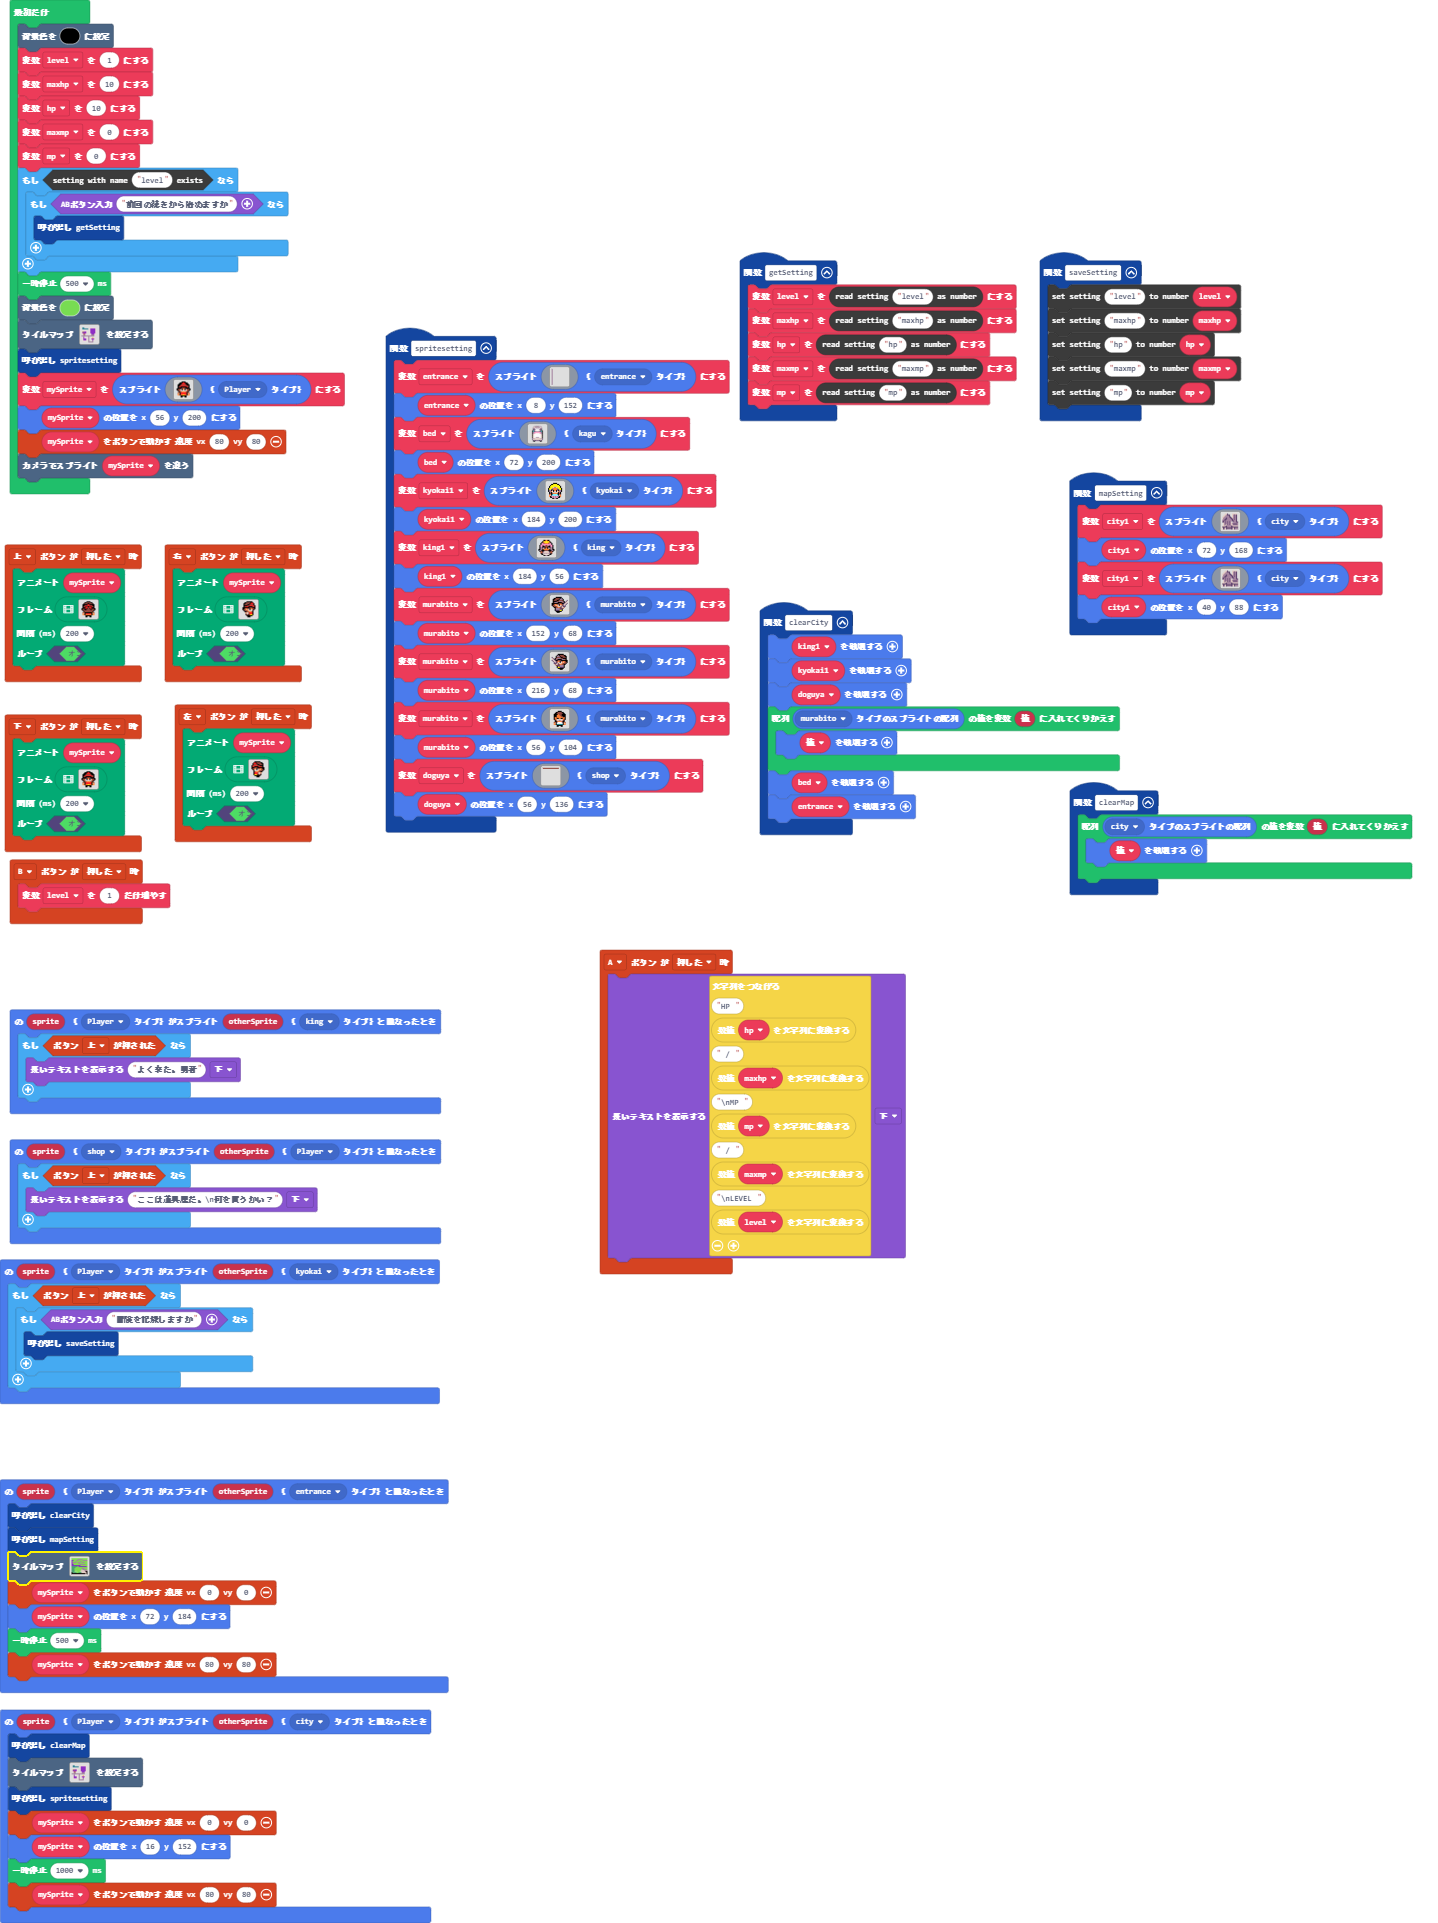
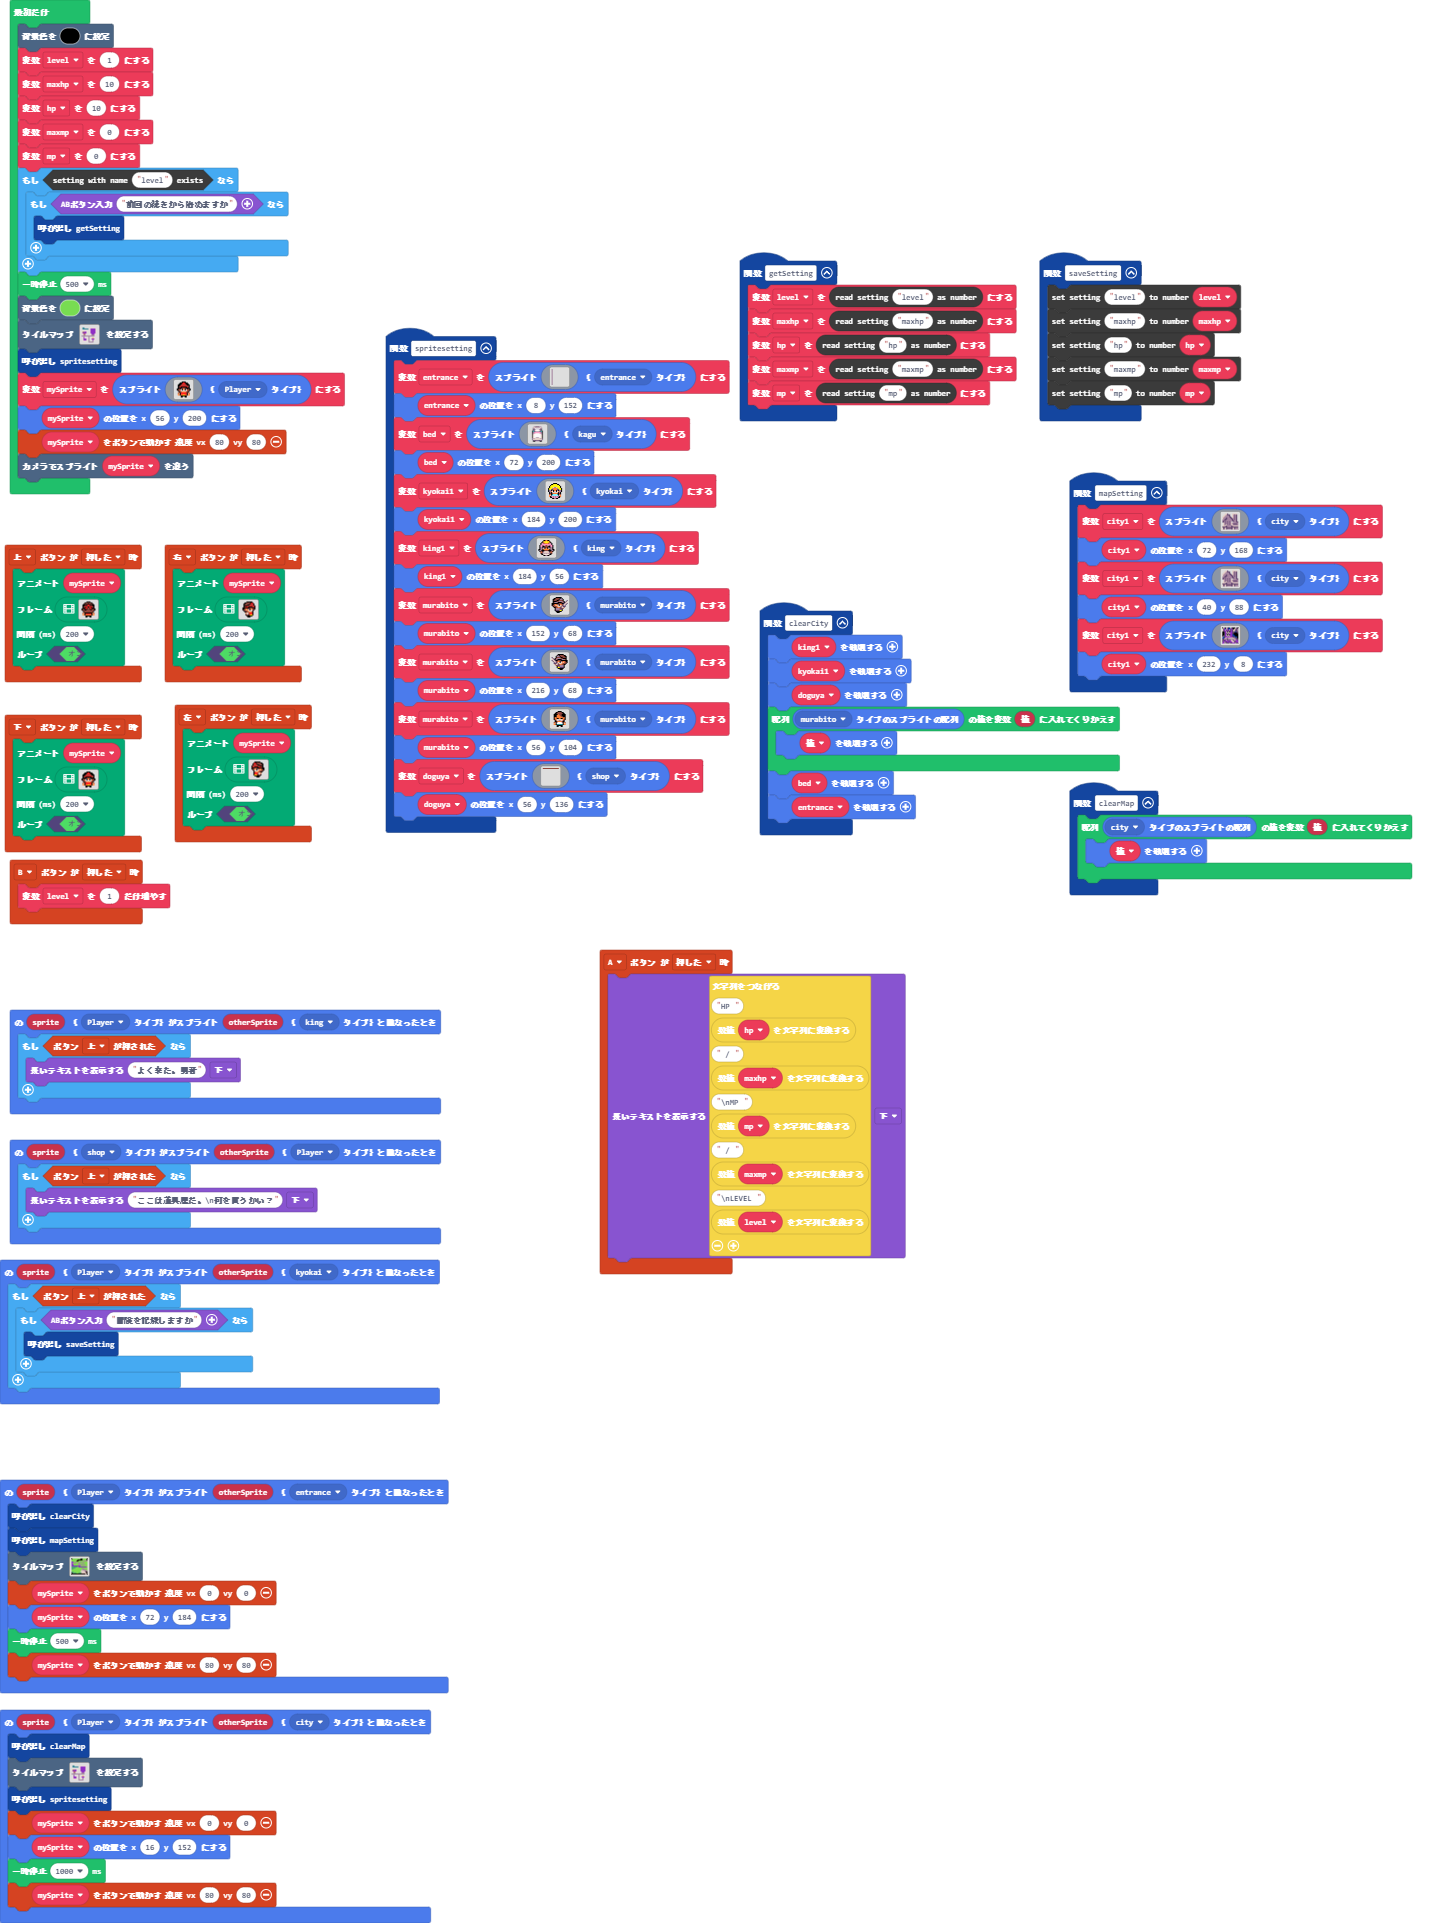
更新 main.blocks, main.ts

diff --git a/main.ts b/main.ts
@@ -428,6 +428,25 @@ function mapSetting () {
     city1.setPosition(72, 168)
     city1 = sprites.create(assets.tile`myTile0`, SpriteKind.city)
     city1.setPosition(40, 88)
+    city1 = sprites.create(img`
+        f d c f d c f 8 d c f f f d c f 
+        d c a 8 d a 8 8 c a c f d b c b 
+        d c a d c a c d c a c d d c c b 
+        d c a a c a c c c a c d b c c b 
+        f f c a d f d f a a c c c 8 c c 
+        f f c a b d b d a a c c f f f c 
+        f f c a c c c a a a c f f f f f 
+        f f c a d f d f a a 8 8 f f f f 
+        f b c a b d b d a a c 8 8 f f f 
+        b 8 c a a a a a a a c c c 8 8 f 
+        8 8 c d d b d d d d d b b c c f 
+        c c d b c c b b b b b d b b c c 
+        c c c a d c b a b d b c d b a c 
+        c a c a a a c a a d d b c a a a 
+        c a b c c a a c a a d d c c a a 
+        a a b b c c c b c c a a a b c c 
+        `, SpriteKind.city)
+    city1.setPosition(232, 8)
 }
 controller.B.onEvent(ControllerButtonEvent.Pressed, function () {
     level += 1
